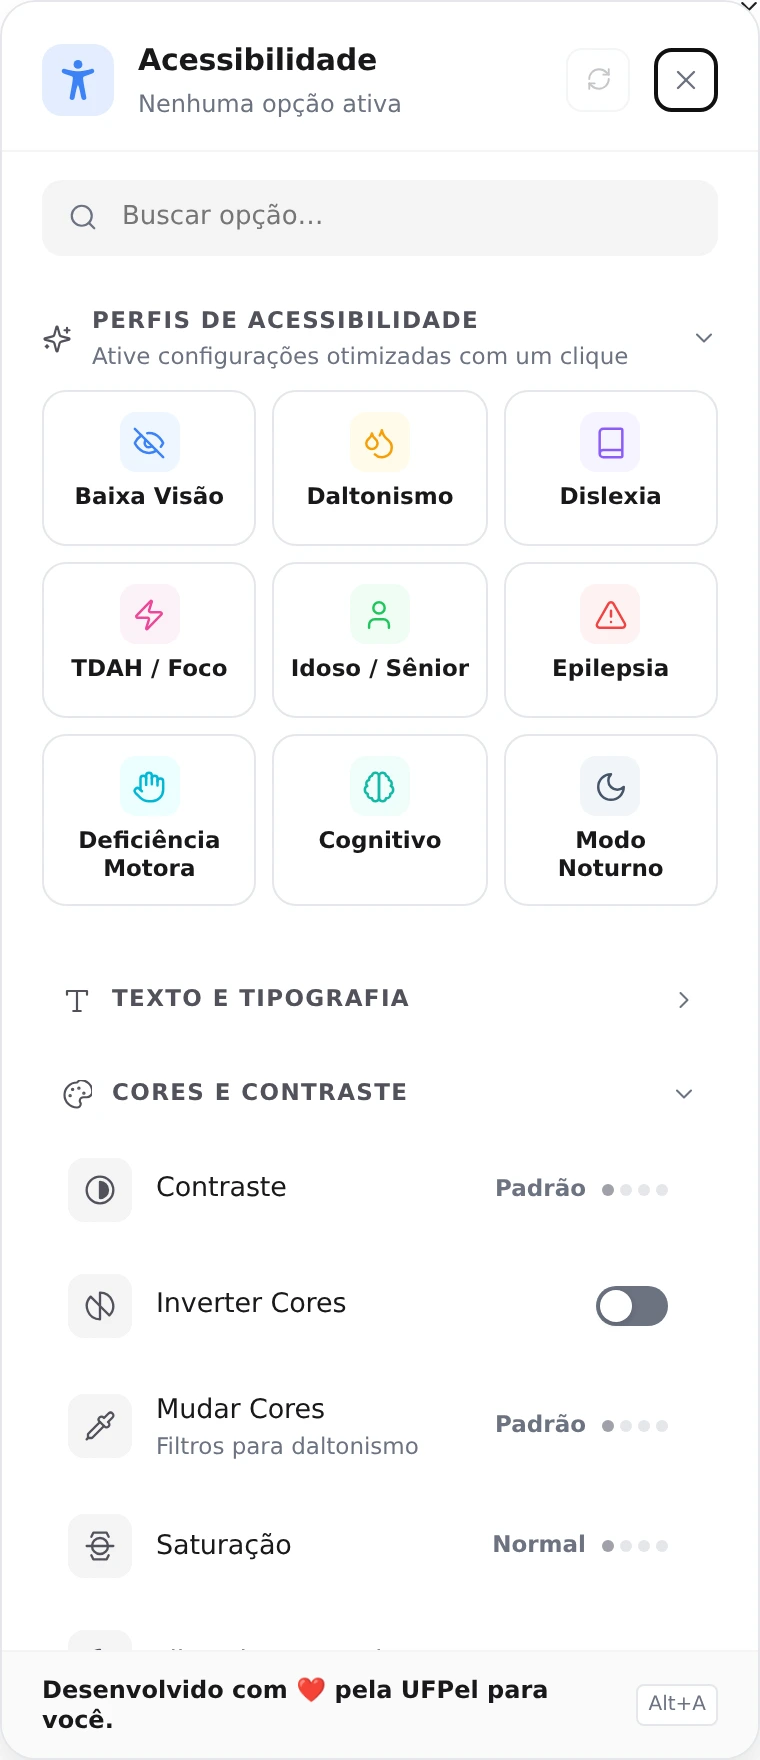
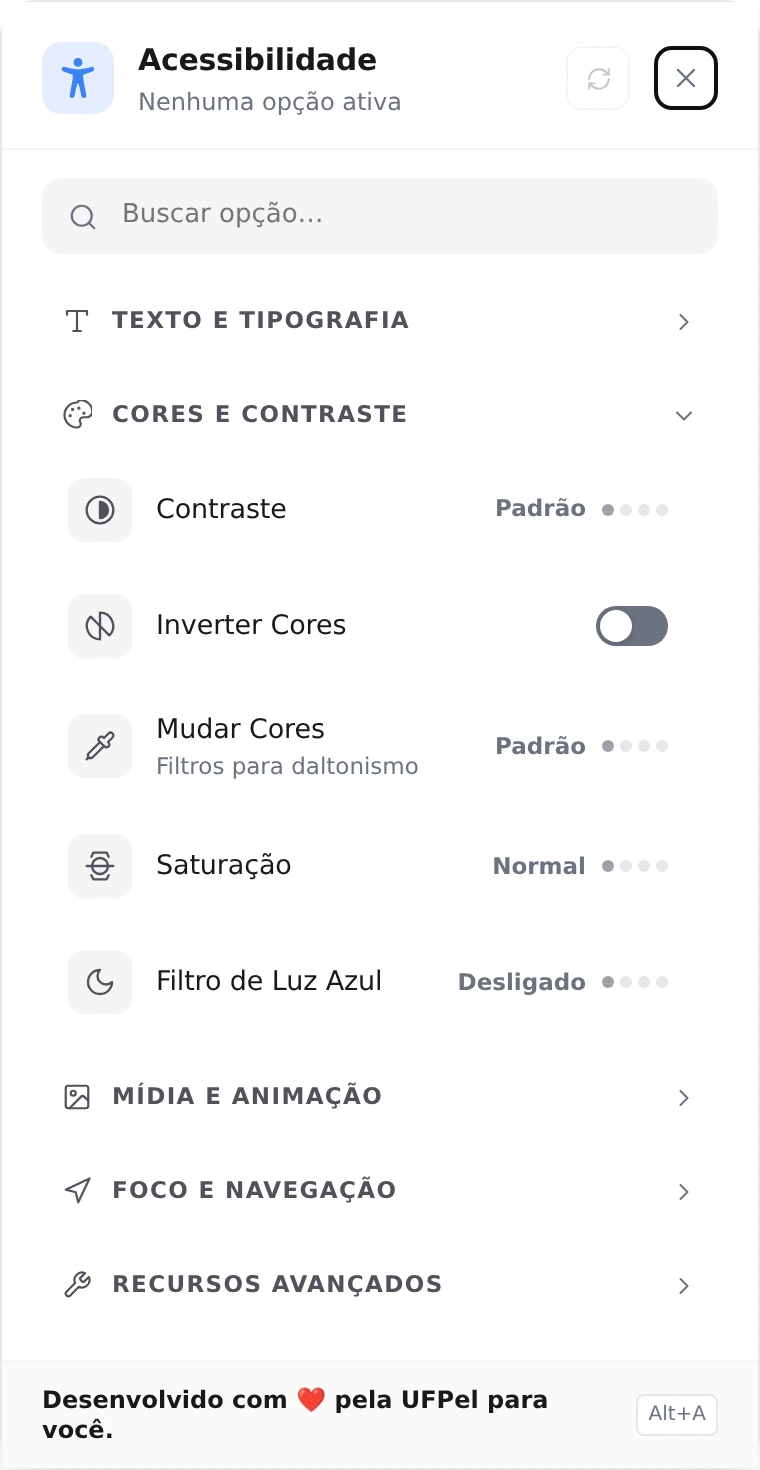
fix: carousel images now focus on the category/profiles of each card
Previous panel/category screenshots still showed the whole panel with the
profiles section expanded, pushing the actual category content mostly out
of frame. Recaptured with the profiles section hidden for category cards
(and the categories list hidden for the profiles card), and with the
panel's own height cap/scroll clipping temporarily removed so every option
in a category is visible instead of being cut off mid-list. Also flipped
.slide__media's crop anchor from bottom to top so the panel header stays
visible instead of being cropped off now that images start at the panel's
own top edge.

diff --git a/assets/home.js b/assets/home.js
@@ -70,8 +70,8 @@
   /* ================= CARROSSEL ================= */
   var track=document.getElementById('car-track'),dots=document.getElementById('car-dots'),prev=document.getElementById('car-prev'),next=document.getElementById('car-next');
   var SL=[
-    {img:'panel',c:null,tone:'#6d28d9',w:760,h:1561},{img:'cat-0',c:'typography',tone:'#1d4ed8',w:760,h:1760},{img:'cat-1',c:'color',tone:'#c2410c',w:760,h:1760},
-    {img:'cat-2',c:'media',tone:'#15803d',w:760,h:1760},{img:'cat-3',c:'navigation',tone:'#0e7490',w:760,h:1760},{img:'cat-4',c:'advanced',tone:'#334155',w:760,h:1760}
+    {img:'panel',c:null,tone:'#6d28d9',w:760,h:1059},{img:'cat-0',c:'typography',tone:'#1d4ed8',w:760,h:2218},{img:'cat-1',c:'color',tone:'#c2410c',w:760,h:1471},
+    {img:'cat-2',c:'media',tone:'#15803d',w:760,h:1463},{img:'cat-3',c:'navigation',tone:'#0e7490',w:760,h:1625},{img:'cat-4',c:'advanced',tone:'#334155',w:760,h:1393}
   ];
   var TX={
     null:[['Perfis de acessibilidade','Nove combinações prontas no topo do painel. Um toque liga as opções do perfil e desliga as outras.'],['Accessibility profiles','Nine ready-made combinations at the top of the panel. One tap turns on the profile\'s options and turns off the rest.']],

diff --git a/index.html b/index.html
@@ -124,7 +124,7 @@
 .slide__text p{color:var(--muted)}
 .chips{display:flex;flex-wrap:wrap;gap:6px;list-style:none;margin:6px 0 0;padding:0}
 .chips li{font-size:.82rem;padding:5px 10px;border-radius:999px;background:var(--surface-2);color:var(--fg)}
-.slide__media{position:relative;background:linear-gradient(160deg,color-mix(in srgb,var(--sl) 28%,var(--surface)),color-mix(in srgb,var(--sl) 8%,var(--surface)));display:grid;place-items:end center;padding:32px 32px 0;overflow:hidden}
+.slide__media{position:relative;background:linear-gradient(160deg,color-mix(in srgb,var(--sl) 28%,var(--surface)),color-mix(in srgb,var(--sl) 8%,var(--surface)));display:grid;place-items:start center;padding:32px 32px 0;overflow:hidden}
 .slide__media{max-height:460px}
 .slide__media img{width:min(290px,100%);border-radius:18px 18px 0 0;box-shadow:0 30px 60px -20px rgba(10,20,50,.45);background:#fff}
 .car__ctrl{display:flex;align-items:center;justify-content:center;gap:16px;margin-top:6px;padding-inline:var(--gutter)}
